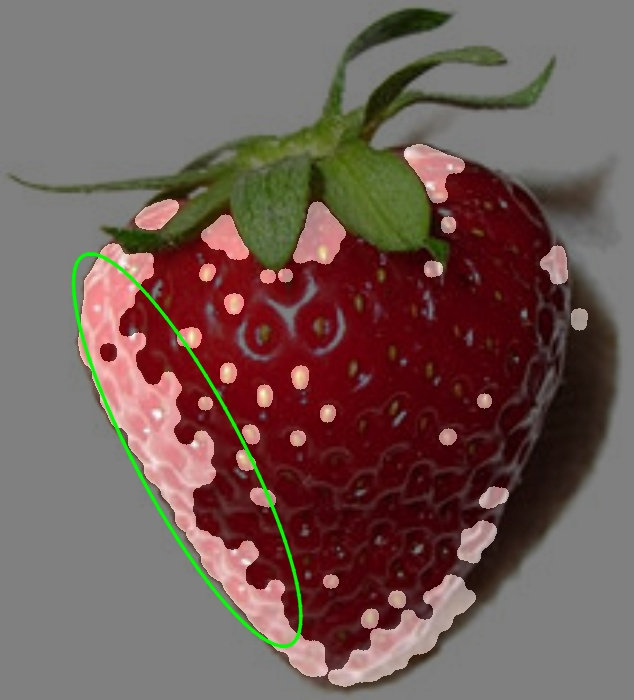
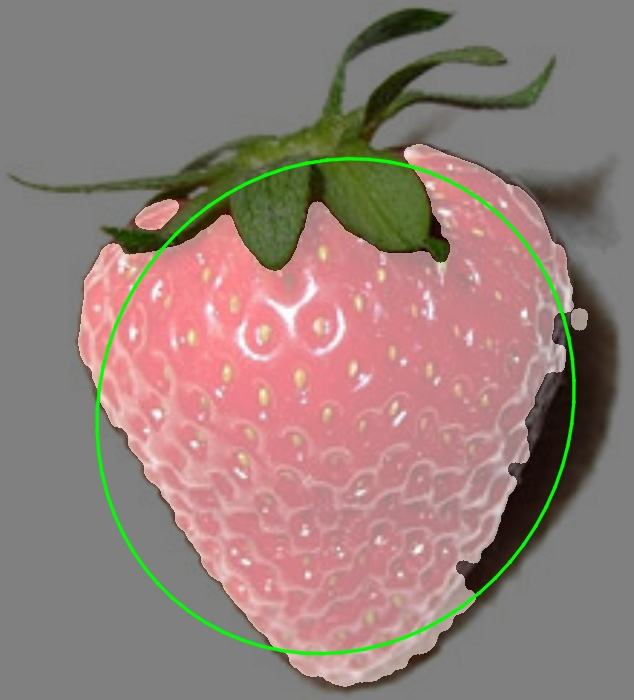
obj detection working

diff --git a/fun.py b/fun.py
@@ -65,7 +65,7 @@ def find_strawberry(image):
 
     #filter by brightness
     min_red2 = np.array([170,100,80])
-    max_red2 = np.array([100,256,256])
+    max_red2 = np.array([180,256,256])
 
     mask2 = cv2.inRange(image_blur_hsv, min_red2, max_red2)
 
